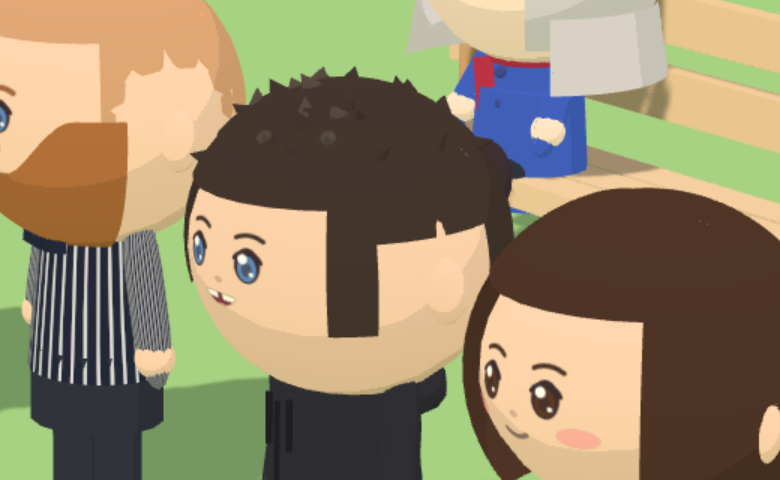
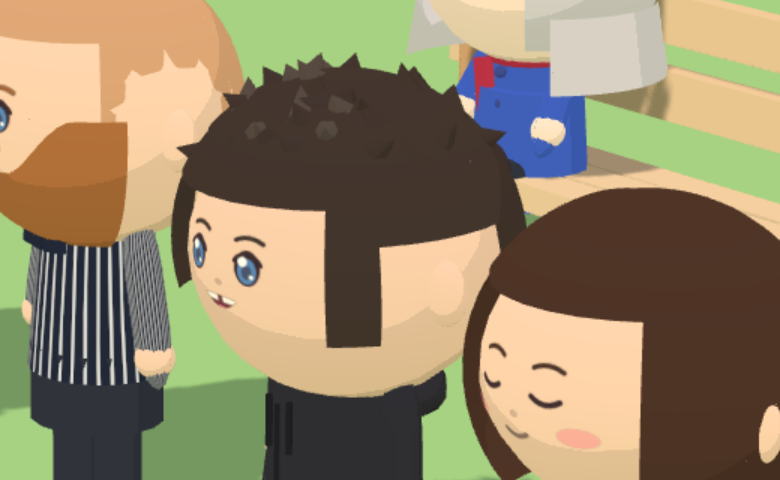
Jens: volles Haar mit Fransen/Strähnen, Ohr wie beim Fade (Kappen passen sich dem breiten Kopf an)
Claude-Session: https://claude.ai/code/session_01ThTYhPHTkGtFy4ue8CC8z3

diff --git a/src/world3d/models/chibi3d.ts b/src/world3d/models/chibi3d.ts
@@ -437,18 +437,20 @@ function addHair(head: THREE.Group, a: Appearance, R: number) {
       break;
     }
     case 'zerzaust': {
-      topCap(1.1, 1.06);
-      // Seitenhaar wie früher bis weit nach unten – nur direkt am Ohr ist ein Fenster frei, damit das Ohr ordentlich aussieht
-      backCap(1.3, 1.05);
-      for (const [start, len] of [[FRONT + 0.85, 0.3], [FRONT - 1.15, 0.3], [FRONT + 1.95, Math.PI * 2 - 3.9]] as const) head.add(shell(R * 1.05, col, start, len, 0, 1.85));
-      head.add(shell(R * 1.07, col, FRONT - 1.0, 2.0, 0.42, 0.4));
-      // abstehende, wuschelige Strähnen (nicht direkt am Ohr)
+      // Breitere (kräftigere) Köpfe brauchen etwas größere Kappen, sonst sticht die Haut zackig durch
+      const k = Math.max(1, 1 + (a.build - 1) * 0.35);
+      topCap(1.1, 1.06 * k);
+      // volles Seitenhaar wie früher bis weit nach unten – nur direkt am Ohr ist ein Fenster frei, damit das Ohr ordentlich aussieht
+      backCap(1.3, 1.05 * k + 0.01);
+      for (const [start, len] of [[FRONT + 0.85, 0.3], [FRONT - 1.15, 0.3], [FRONT + 1.95, Math.PI * 2 - 3.9]] as const) head.add(shell(R * (1.05 * k + 0.01), col, start, len, 0, 1.85));
+      head.add(shell(R * 1.07 * k, col, FRONT - 1.0, 2.0, 0.42, 0.4));
+      // abstehende, wuschelige Strähnen / Fransen (nicht direkt am Ohr)
       for (let i = 0; i < 40; i++) {
         const theta = 0.15 + rnd() * 1.0;
         const phi = rnd() * Math.PI * 2;
         if (theta > 0.8 && fromFront(phi) < openFace) continue;
         if (theta > 0.85 && fromFront(phi) > 1.05 && fromFront(phi) < 2.05) continue;
-        const p = onSphere(R * 1.02, theta, phi);
+        const p = onSphere(R * 1.05 * k, theta, phi);
         const tuft = part(cone, shades[i % 3], R * 0.16, R * (0.2 + rnd() * 0.12), R * 0.16, p.x, p.y, p.z);
         const n = p.clone().normalize();
         tuft.quaternion.setFromUnitVectors(new THREE.Vector3(0, 1, 0), n.add(new THREE.Vector3((rnd() - 0.5) * 1.4, -0.1, (rnd() - 0.5) * 1.4)).normalize());
